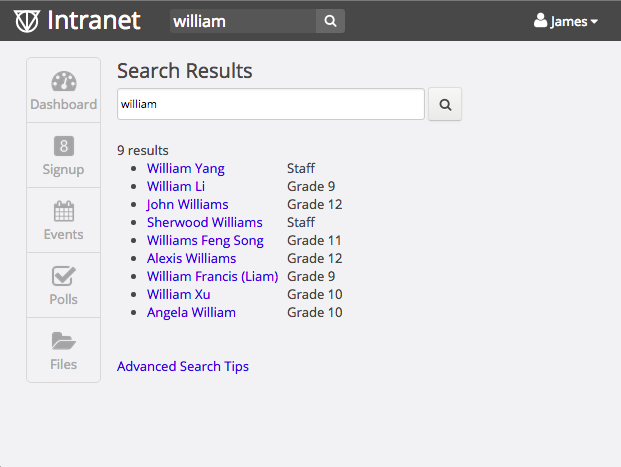
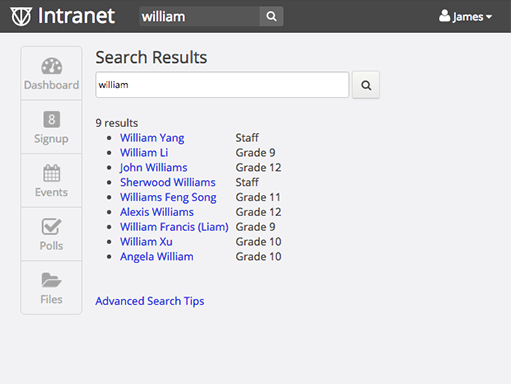
resize images; update simulator display

diff --git a/intranet/templates/auth/about.html b/intranet/templates/auth/about.html
@@ -74,31 +74,30 @@
         <div class="simulator-area">
             <div class="desktop-area">
                 <span>
-                    <img src="{% static 'img/promo/dashboard.png' %}" style="zoom: .5" />
+                    <img src="{% static 'img/promo/dashboard.png' %}" />
                 </span>
                 <span>
-                    <img src="{% static 'img/promo/eighth-signup.png' %}" style="zoom: .5" />
+                    <img src="{% static 'img/promo/eighth-signup.png' %}" />
                 </span>
                 <span>
-                    <img src="{% static 'img/promo/profile.png' %}" style="zoom: .5" />
-                    <br /><br /><br /><br />
+                    <img src="{% static 'img/promo/profile.png' %}" />
                 </span>
                 <span>
-                    <img src="{% static 'img/promo/search.png' %}" style="zoom: .7" />
+                    <img src="{% static 'img/promo/search.png' %}" />
                 </span>
             </div>
             <div class="mobile-area">
                 <span>
-                    <img src="{% static 'img/promo/dashboard-mobile.png' %}" style="zoom: .4" />
+                    <img src="{% static 'img/promo/dashboard-mobile.png' %}" />
                 </span>
                 <span>
-                    <img src="{% static 'img/promo/eighth-signup-mobile.png' %}" style="zoom: .4" />
+                    <img src="{% static 'img/promo/eighth-signup-mobile.png' %}" />
                 </span>
                 <span>
-                    <img src="{% static 'img/promo/eighth-signup-list-mobile.png' %}" style="zoom: .4">
+                    <img src="{% static 'img/promo/eighth-signup-list-mobile.png' %}" />
                 </span>
                 <span>
-                    <img src="{% static 'img/promo/nav-mobile.png' %}" style="zoom: .4" />
+                    <img src="{% static 'img/promo/nav-mobile.png' %}" />
                 </span>
             </div>
         </div>

diff --git a/intranet/static/css/about.css b/intranet/static/css/about.css
@@ -18,7 +18,7 @@
     position: static;
     top: 0;
     margin-top: 0;
-    background-color: #f0f0f0;
+    background-color: rgb(242,242,244);
     width: 600px;
     padding-top: 25px;
     padding-left: 50px;
@@ -42,24 +42,26 @@
     height: 400px;
     margin-top: 25px;
     margin-bottom: 25px;
-
     position: fixed;
 }
 
 .desktop-area {
-    width: 512px;
+    width: 509px;
     height: 384px;
     overflow: hidden;
 }
 
 .mobile-area {
-    width: 180px;
-    height: 258px;
+    width: 178px;
+    height: 324px;
     overflow: hidden;
-
     position: absolute;
-    top: 128px;
+    top: 71px;
     right: 30px;
+}
+
+.mobile-area > span > img {
+    width: 180px;
 }
 
 .about-text {
@@ -87,6 +89,7 @@ p {
         width: 100%;
         margin-left: 0;
         padding: 0;
+        margin-top: 460px;
     }
 
     .center {
@@ -105,10 +108,15 @@ p {
     }
 
     .mobile-area {
-        zoom: 1.5;
         top: 0;
         left: 50%;
-        margin-left: -90px;
+        margin-left: -128px;
+        width: 256px;
+        height: 459px;
+    }
+
+    .mobile-area > span > img {
+        width: auto;
     }
 }
 
